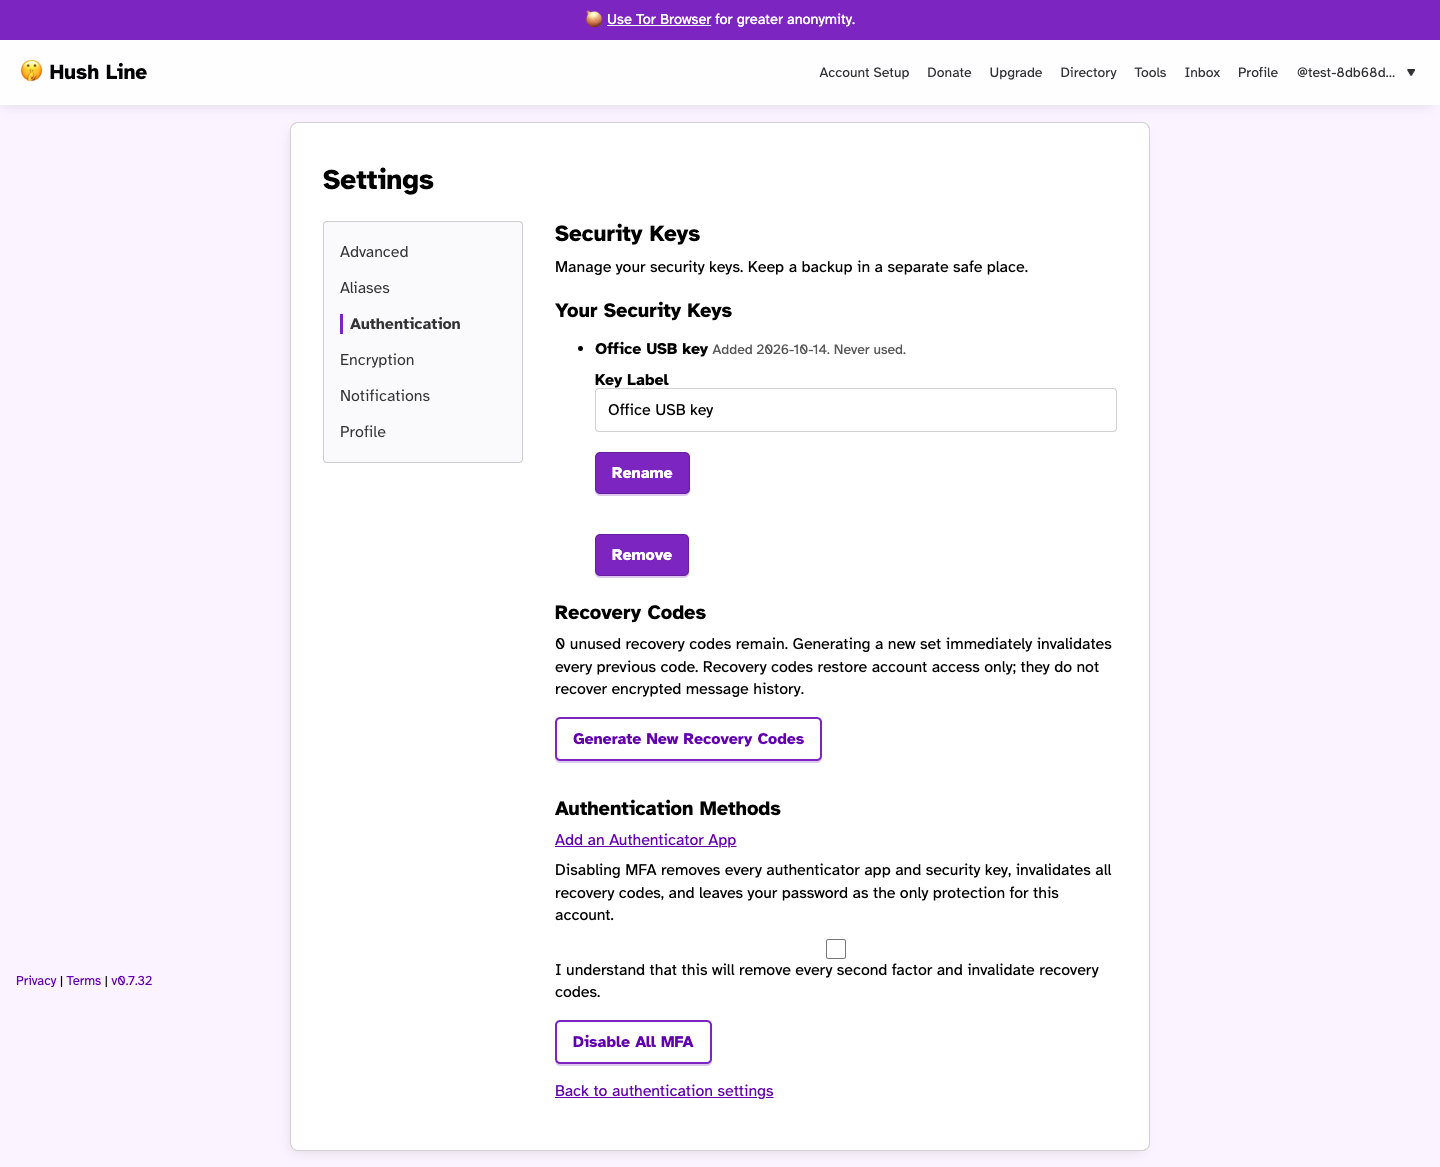
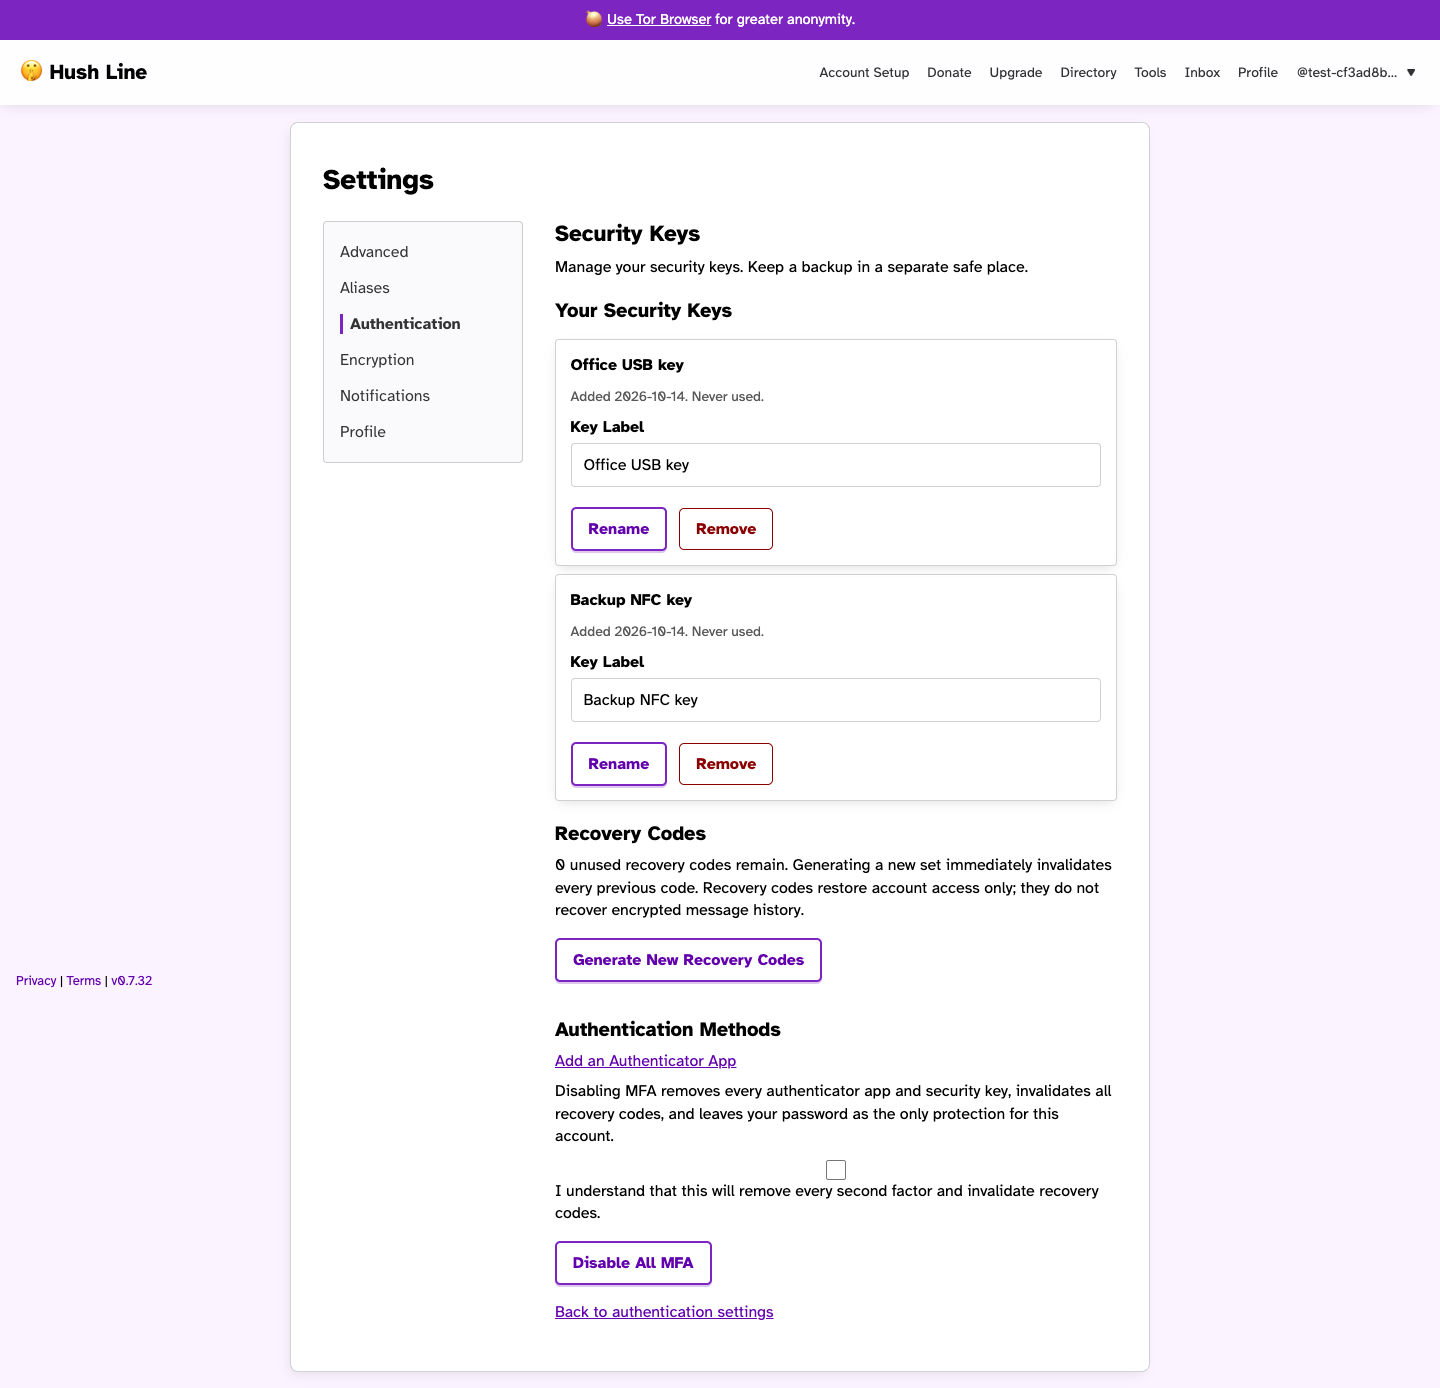
Group enrolled keys in cards with inline destructive removal

diff --git a/hushline/templates/settings/security_keys.html b/hushline/templates/settings/security_keys.html
@@ -16,20 +16,20 @@
 
   {% if credentials %}
     <h4>Your Security Keys</h4>
-    <ul id="security-key-list">
+    <div id="security-key-list" class="alias-list">
       {% for credential in credentials %}
-        <li>
+        <div class="alias-entry security-key-card">
           <strong>{{ credential.name or 'Security key' }}</strong>
-          <span class="meta">
+          <p class="meta">
             Added <time datetime="{{ credential.created_at.isoformat() }}">{{ credential.created_at.strftime('%Y-%m-%d') }}</time>.
             {% if credential.last_used_at %}
               Last used <time datetime="{{ credential.last_used_at.isoformat() }}">{{ credential.last_used_at.strftime('%Y-%m-%d %H:%M UTC') }}</time>.
             {% else %}
               Never used.
             {% endif %}
-          </span>
+          </p>
           {% if enrollment_authorized %}
-            <form method="POST" action="{{ url_for('settings.rename_security_key') }}">
+            <form id="rename-key-form-{{ credential.id }}" method="POST" action="{{ url_for('settings.rename_security_key') }}">
               {{ rename_form.csrf_token(id='rename-key-csrf-' ~ credential.id) }}
               <input type="hidden" name="credential_id" value="{{ credential.id }}" />
               <label for="rename-key-{{ credential.id }}">Key Label</label>
@@ -42,17 +42,19 @@
                 value="{{ credential.name or '' }}"
                 autocomplete="off"
               />
-              <button type="submit">Rename</button>
             </form>
-            <form method="POST" action="{{ url_for('settings.remove_security_key') }}">
-              {{ removal_form.csrf_token(id='remove-key-csrf-' ~ credential.id) }}
-              <input type="hidden" name="credential_id" value="{{ credential.id }}" />
-              <button type="submit">Remove</button>
-            </form>
+            <div class="security-key-actions">
+              <button type="submit" form="rename-key-form-{{ credential.id }}" class="btn">Rename</button>
+              <form method="POST" action="{{ url_for('settings.remove_security_key') }}">
+                {{ removal_form.csrf_token(id='remove-key-csrf-' ~ credential.id) }}
+                <input type="hidden" name="credential_id" value="{{ credential.id }}" />
+                <button type="submit" class="btn btn-danger">Remove</button>
+              </form>
+            </div>
           {% endif %}
-        </li>
+        </div>
       {% endfor %}
-    </ul>
+    </div>
   {% endif %}
 
   {% if credentials|length >= max_credentials %}

diff --git a/tests/playwright/e2ee/security-key-enrollment.spec.js b/tests/playwright/e2ee/security-key-enrollment.spec.js
@@ -306,13 +306,21 @@ test("virtual authenticators cover enrollment, login, revocation, and backup rec
   });
 
   await authorizeAfterRecentStrongAuthentication(page);
-  const primaryRow = page.locator("#security-key-list li", {
+  const primaryRow = page.locator("#security-key-list .security-key-card", {
     hasText: "Primary virtual USB key",
   });
-  await primaryRow.getByRole("button", { name: "Remove" }).click();
+  await primaryRow
+    .getByLabel("Key Label", { exact: true })
+    .fill("Renamed primary key");
+  await primaryRow.getByRole("button", { name: "Rename", exact: true }).click();
+  const renamedRow = page.locator("#security-key-list .security-key-card", {
+    hasText: "Renamed primary key",
+  });
+  await virtualExpect(renamedRow).toBeVisible();
+  await renamedRow.getByRole("button", { name: "Remove", exact: true }).click();
   await virtualExpect(page.getByText("Security key removed")).toBeVisible();
   await virtualExpect(
-    page.getByText("Primary virtual USB key", { exact: true }),
+    page.getByText("Renamed primary key", { exact: true }),
   ).toHaveCount(0);
 
   await page.goto("/logout", { waitUntil: "networkidle" });

diff --git a/assets/scss/style.scss b/assets/scss/style.scss
@@ -5071,6 +5071,44 @@ h2.submit#embed-recipient-heading {
   margin-top: 0.25rem;
 }
 
+.security-key-card {
+  flex-direction: column;
+  align-items: stretch;
+  gap: 0.75rem;
+}
+
+.security-key-card .meta {
+  margin: 0;
+}
+
+.security-key-card form {
+  margin: 0;
+}
+
+.security-key-card input[type="text"],
+.security-key-actions .btn {
+  margin-bottom: 0;
+}
+
+.security-key-actions {
+  display: flex;
+  align-items: center;
+  gap: 0.75rem;
+  flex-wrap: wrap;
+}
+
+.security-key-actions .btn-danger {
+  background: transparent;
+  border-width: 1px;
+  box-shadow: none;
+}
+
+@media (prefers-color-scheme: dark) {
+  .security-key-actions .btn-danger {
+    color: pink;
+  }
+}
+
 .stretched-link::after {
   position: absolute;
   top: 0;

diff --git a/tests/test_settings_security_keys.py b/tests/test_settings_security_keys.py
@@ -321,6 +321,24 @@ def test_existing_keys_remain_manageable_when_new_enrollment_is_unavailable(
     assert "Office USB key" in page.text
     assert ">Rename</button>" in page.text
     assert ">Remove</button>" in page.text
+    markup = BeautifulSoup(page.text, "html.parser")
+    card = markup.select_one("#security-key-list .security-key-card")
+    assert card is not None
+    assert markup.select_one("#security-key-list li") is None
+    actions = card.select_one(".security-key-actions")
+    assert actions is not None
+    rename_button = actions.find("button", string="Rename")
+    assert rename_button is not None
+    rename_form = card.find("form", id=rename_button["form"])
+    assert rename_form is not None
+    assert rename_form["action"] == url_for("settings.rename_security_key")
+    assert rename_form.select_one('input[name="csrf_token"]') is not None
+    remove_button = actions.select_one("button.btn-danger")
+    assert remove_button is not None
+    remove_form = remove_button.find_parent("form")
+    assert remove_form is not None
+    assert remove_form["action"] == url_for("settings.remove_security_key")
+    assert remove_form.select_one('input[name="csrf_token"]') is not None
     assert "security-key-enrollment-form" not in page.text
     assert "paused" not in page.text
 
